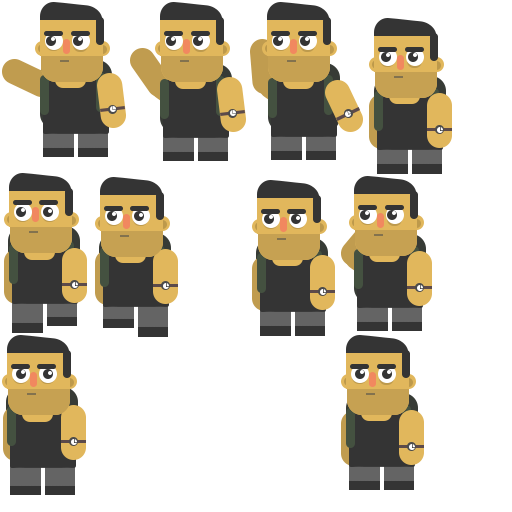
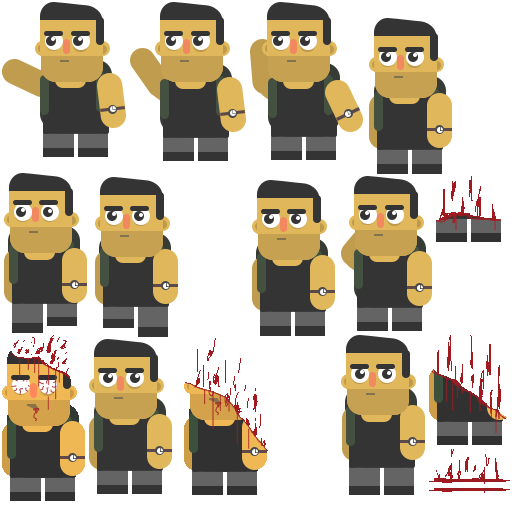
initial commit

diff --git a/data.js b/data.js
@@ -1,1 +1,1 @@
-{"project": [null,"Layout 1",[[0,true,false,false,false,false,false,false,false,false],[1,true,false,false,false,false,false,false,false,false],[2,false,true,true,true,true,true,true,true,false]],[["t0",2,false,[],1,0,null,[["Default",5,false,1,0,false,290345721044715,[["images/sprite-sheet0.png",155,0,0,250,250,1,0.5,0.5,[],[],1]]]],[["Solid",3,567882744978738]],false,false,850292825278928,[],null],["t1",2,false,[],3,0,null,[["stay",1,true,1,0,false,749362730985729,[["images/krot-sheet0.png",21774,340,334,85,157,1,0.4588235318660736,0.3821656107902527,[],[-0.4588235318660736,-0.3821656107902527,0.541176438331604,-0.3694266974925995,0.541176438331604,0.606688380241394,-0.4588235318660736,0.6082803606987],0],["images/krot-sheet0.png",21774,1,334,86,162,1,0.4767441749572754,0.4074074029922485,[],[-0.4767441749572754,-0.3765431940555573,0.5232558250427246,-0.3765431940555573,0.5232558250427246,0.5864195823669434,-0.4767441749572754,0.5864195823669434],0]]],["walk",8,true,1,0,false,620806035639059,[["images/krot-sheet0.png",21774,366,1,89,172,1,0.5056179761886597,0.5,[],[-0.5056179761886597,-0.4011628031730652,0.4943820238113403,-0.3895350098609924,0.4943820238113403,0.5,-0.5056179761886597,0.5],0],["images/krot-sheet0.png",21774,1,160,89,172,1,0.5056179761886597,0.5,[],[-0.5056179761886597,-0.4127907156944275,0.4943820238113403,-0.4127907156944275,0.4943820238113403,0.5,-0.5056179761886597,0.5],0],["images/krot-sheet0.png",21774,249,163,89,172,1,0.5056179761886597,0.5,[],[-0.5056179761886597,-0.4011628031730652,0.4943820238113403,-0.4011628031730652,0.4943820238113403,0.5,-0.4943819642066956,0.5],0],["images/krot-sheet0.png",21774,92,164,89,172,1,0.5056179761886597,0.5,[],[-0.5056179761886597,-0.4244185984134674,0.4943820238113403,-0.4011628031730652,0.4943820238113403,0.5,-0.5056179761886597,0.5],0]]],["drop",15,false,1,0,false,899819414167787,[["images/krot-sheet0.png",21774,340,175,93,157,1,0.5376344323158264,0.4394904375076294,[["Imagepoint 1",0.2903225719928742,0.3566879034042358]],[],0],["images/krot-sheet0.png",21774,249,1,115,160,1,0.47826087474823,0.449999988079071,[["Imagepoint 1",0.08695652335882187,0.2874999940395355]],[],0],["images/krot-sheet0.png",21774,129,1,118,161,1,0.5677965879440308,0.4534161388874054,[["Imagepoint 1",0.110169492661953,0.3540372550487518]],[],0],["images/krot-sheet0.png",21774,1,1,126,157,1,0.5952380895614624,0.4394904375076294,[["Imagepoint 1",0.0873015895485878,0.4458598792552948]],[],0]]]],[["Platform",4,458768988047190],["BoundToLayout",5,684014954984574],["ScrollTo",6,859073958457386]],false,false,881908458768450,[],null],["t2",1,false,[],0,0,null,null,[],false,false,885561060398515,[],null,[]],["t3",2,false,[],0,0,null,[["Default",5,false,1,0,false,898584850631718,[["images/mist-sheet0.png",168,0,0,250,250,1,0.5,0.5,[],[],0]]]],[],false,false,654437097259285,[],null],["t4",0,false,[],0,0,null,null,[],false,false,727626906444584,[],null,[]],["t5",2,false,[],2,0,null,[["Default",5,false,1,0,false,499906694730649,[["images/sprite2-sheet0.png",281,0,0,15,20,1,0.5333333611488342,0.5,[],[-0.2625000476837158,-0.496874988079071,0.1875000596046448,-0.5,0.2000000476837158,0.5,-0.2791666686534882,0.5],0]]]],[["Bullet",7,769964365356509],["DestroyOutsideLayout",8,737752913393361]],false,false,683811939376830,[],null]],[],[["Layout 1",6000,2000,false,"Event sheet 1",339267919298112,[["Layer 0",0,149346478023455,true,[255,255,255],false,1,1,1,false,false,1,0,0,[[[2915.5,1977.5,0,6605,129,0,0,1,0.5,0.5,0,0,[]],0,0,[],[[1]],[0,"Default",0,1]],[[1607,-67,0,15,20,0,0,1,0.5333333611488342,0.5,0,0,[]],5,6,[],[[0,0,800,1,1,1],[]],[0,"Default",0,1]],[[1661,1784,0,85,157,0,0,1,0.4588235318660736,0.3821656107902527,0,0,[]],1,1,[],[[280,1000,1500,650,1500,1000,0,0,1,1],[1],[1]],[0,"Default",0,1]],[[2095,1292,0,3933,-225,0,1.570796370506287,1,0.5,0.5,0,0,[]],0,2,[],[[1]],[0,"Default",0,1]]],[]],["Layer 1",1,789250980891921,true,[255,255,255],true,0,0,1,false,false,1,0,0,[[[721,451,0,1440,900,0,0,1,0.5,0.5,0,0,[]],3,4,[],[],[0,"Default",0,1]]],[]]],[],[["blurhorizontal","BlurHorizontal",[0]],["grayscale","Grayscale",[0]]]]],[["Event sheet 1",[[1,"ty",0,0,false,false,295309401912935,false],[1,"tx",0,0,false,false,686007770488900,false],[0,[true,"Control"],false,null,813629449412545,[[-1,9,null,0,false,false,false,813629449412545,false,[[1,[2,"Control"]]]]],[],[[0,null,false,null,304820155854239,[[2,10,null,0,false,false,false,721475594710509,false,[[9,68]]]],[[1,11,null,177092695791647,false,[[3,0]]],[1,12,"Platform",168325137038171,false,[[3,1]]],[1,13,null,707523333173732,false,[[1,[2,"walk"]],[3,0]]]]],[0,null,false,null,667516650761343,[[2,10,null,0,false,false,false,651807720691503,false,[[9,65]]]],[[1,12,"Platform",333995605247050,false,[[3,0]]],[1,11,null,104973760089539,false,[[3,1]]],[1,13,null,607868741063633,false,[[1,[2,"walk"]],[3,0]]]]],[0,null,false,null,411008383957127,[[2,14,null,1,false,false,false,383819252518843,false]],[[1,13,null,797436896979419,false,[[1,[2,"stay"]],[3,1]]]]],[0,null,false,null,894846660153466,[[2,10,null,0,false,false,false,509737596433223,false,[[9,65]]]],[],[[0,null,false,null,741148839789466,[[2,10,null,0,false,false,false,533136677834150,false,[[9,68]]]],[[1,13,null,643858538598154,false,[[1,[2,"stay"]],[3,1]]]]]]],[0,null,false,null,516101026509157,[[2,15,null,1,false,false,false,765708718048436,false,[[9,68]]]],[[1,11,null,762591654095238,false,[[3,0]]],[1,12,"Platform",787100016566240,false,[[3,1]]],[1,13,null,389692988739255,false,[[1,[2,"walk"]],[3,0]]]]],[0,null,false,null,317125194927920,[[2,15,null,1,false,false,false,195029383321465,false,[[9,65]]]],[[1,12,"Platform",645367843616661,false,[[3,0]]],[1,11,null,250908099444129,false,[[3,1]]],[1,13,null,382971586698483,false,[[1,[2,"walk"]],[3,0]]]]],[0,null,false,null,732489410493878,[[2,10,null,0,false,false,false,235992029318448,false,[[9,87]]]],[[1,12,"Platform",979978631487969,false,[[3,2]]]]],[0,[true,"Drop"],false,null,833617224661759,[[-1,9,null,0,false,false,false,833617224661759,false,[[1,[2,"Drop"]]]]],[],[[0,null,false,null,784452358361354,[[4,16,null,1,false,false,false,684199064864216,false,[[3,0],[3,0]]]],[[-1,17,null,603926017360656,false,[[11,"tx"],[7,[20,4,18,false,null]]]],[-1,17,null,199793876582497,false,[[11,"ty"],[7,[20,4,19,false,null]]]],[1,13,null,795070699028010,false,[[1,[2,"drop"]],[3,1]]]],[[0,null,false,null,216521865756220,[[-1,20,null,0,false,false,false,482504774635426,false,[[7,[20,4,18,false,null]],[8,4],[7,[20,1,21,false,null]]]]],[[1,11,null,312602241872034,false,[[3,0]]]]],[0,null,false,null,658034387238527,[[-1,22,null,0,false,false,false,561652485538757,false]],[[1,11,null,904554921919341,false,[[3,1]]]]]]],[0,null,false,null,199717382547579,[[1,23,null,1,false,false,false,917950613831408,false,[[1,[2,"drop"]]]]],[[1,24,null,805161869226979,false,[[4,5],[5,[0,0]],[7,[0,1]]]],[1,13,null,750164170788197,false,[[1,[2,"stay"]],[3,1]]],[5,25,"Bullet",804105547968555,false,[[0,[0,900]]]],[5,26,null,238112163086017,false,[[0,[23,"tx"]],[0,[23,"ty"]]]]]],[0,null,false,null,241404031183343,[[5,27,null,0,false,false,true,600237593454248,false,[[4,0]]]],[[5,25,"Bullet",602554344957209,false,[[0,[0,0]]]],[5,28,"Bullet",455870829027286,false,[[4,0]]]]]]]]]]]],[],"media/",false,1440,900,4,true,true,true,"1.0.0.0",true,false,1,0,7,false,true,0,true,"Посещение Три",0,[]]}
+{"project": [null,"Layout 1",[[0,true,false,false,false,false,false,false,false,false],[1,true,false,false,false,false,false,false,false,false],[2,false,true,true,true,true,true,true,true,false]],[["t0",2,false,[],1,0,null,[["Default",5,false,1,0,false,290345721044715,[["images/sprite-sheet0.png",155,0,0,250,250,1,0.5,0.5,[],[],1]]]],[["Solid",3,567882744978738]],false,false,850292825278928,[],null],["t1",2,false,[],3,0,null,[["stay",1,false,1,0,false,749362730985729,[["images/krot-sheet0.png",29600,88,338,85,157,1,0.4588235318660736,0.3821656107902527,[],[-0.4588235318660736,-0.3821656107902527,0.541176438331604,-0.3694266974925995,0.541176438331604,0.606688380241394,-0.4588235318660736,0.6082803606987],0],["images/krot-sheet0.png",29600,340,334,86,162,1,0.4767441749572754,0.4074074029922485,[],[-0.4767441749572754,-0.3765431940555573,0.5232558250427246,-0.3765431940555573,0.5232558250427246,0.5864195823669434,-0.4767441749572754,0.5864195823669434],0]]],["walk",8,true,1,0,false,620806035639059,[["images/krot-sheet0.png",29600,366,1,89,172,1,0.5056179761886597,0.5,[],[-0.5056179761886597,-0.4011628031730652,0.4943820238113403,-0.3895350098609924,0.4943820238113403,0.5,-0.5056179761886597,0.5],0],["images/krot-sheet0.png",29600,1,160,89,172,1,0.5056179761886597,0.5,[],[-0.5056179761886597,-0.4127907156944275,0.4943820238113403,-0.4127907156944275,0.4943820238113403,0.5,-0.5056179761886597,0.5],0],["images/krot-sheet0.png",29600,249,163,89,172,1,0.5056179761886597,0.5,[],[-0.5056179761886597,-0.4011628031730652,0.4943820238113403,-0.4011628031730652,0.4943820238113403,0.5,-0.4943819642066956,0.5],0],["images/krot-sheet0.png",29600,92,164,89,172,1,0.5056179761886597,0.5,[],[-0.5056179761886597,-0.4244185984134674,0.4943820238113403,-0.4011628031730652,0.4943820238113403,0.5,-0.5056179761886597,0.5],0]]],["drop",15,false,1,0,false,899819414167787,[["images/krot-sheet0.png",29600,340,175,93,157,1,0.5376344323158264,0.4394904375076294,[["Imagepoint 1",0.2903225719928742,0.3566879034042358]],[],0],["images/krot-sheet0.png",29600,249,1,115,160,1,0.47826087474823,0.449999988079071,[["Imagepoint 1",0.08695652335882187,0.2874999940395355]],[],0],["images/krot-sheet0.png",29600,129,1,118,161,1,0.5677965879440308,0.4534161388874054,[["Imagepoint 1",0.110169492661953,0.3540372550487518]],[],0],["images/krot-sheet0.png",29600,1,1,126,157,1,0.5952380895614624,0.4394904375076294,[["Imagepoint 1",0.0873015895485878,0.4458598792552948]],[],0]]],["meat",22,false,1,0,false,944242292211497,[["images/krot-sheet1.png",3185,1,1,85,157,1,0.4823529422283173,0.4968152940273285,[],[],0],["images/krot-sheet0.png",29600,1,334,85,168,1,0.4823529422283173,0.5297619104385376,[],[],0],["images/krot-sheet1.png",3185,88,1,85,149,1,0.4823529422283173,0.4697986543178558,[],[],0],["images/krot-sheet0.png",29600,183,337,86,159,1,0.4767441749572754,0.5031446814537048,[],[],0],["images/krot-sheet0.png",29600,428,334,80,112,1,0.512499988079071,0.2946428656578064,[],[],0],["images/krot-sheet0.png",29600,435,175,67,68,1,0.4925373196601868,-0.1617647111415863,[],[],0],["images/krot-sheet0.png",29600,428,448,83,37,1,0.4939759075641632,-1.891891837120056,[],[],0],["images/krot-sheet0.png",29600,428,487,83,7,1,0.4939759075641632,-12,[],[],0],["images/krot-sheet0.png",29600,428,487,83,7,1,0.4939759075641632,-12.42857170104981,[],[],0],["images/krot-sheet0.png",29600,428,487,83,7,1,0.4698795080184937,-12.42857170104981,[],[],0]]]],[["Platform",4,458768988047190],["BoundToLayout",5,684014954984574],["ScrollTo",6,859073958457386]],false,false,881908458768450,[],null],["t2",0,false,[],0,0,null,null,[],false,false,885561060398515,[],null,[]],["t3",2,false,[],0,0,null,[["Default",5,false,1,0,false,898584850631718,[["images/mist-sheet0.png",168,0,0,250,250,1,0.5,0.5,[],[],0]]]],[],false,false,654437097259285,[],null],["t4",1,false,[],0,0,null,null,[],false,false,727626906444584,[],null,[]],["t5",2,false,[],2,0,null,[["Default",5,false,1,0,false,499906694730649,[["images/sprite2-sheet0.png",281,0,0,15,20,1,0.5333333611488342,0.5,[],[-0.2625003755092621,-0.496874988079071,0.1874996423721314,-0.5,0.1999996304512024,0.5,-0.2791663706302643,0.5],0]]]],[["Bullet",7,769964365356509],["DestroyOutsideLayout",8,737752913393361]],false,false,683811939376830,[],null],["t6",2,false,[],0,0,null,[["Default",5,false,1,0,false,360482721725032,[["images/meat-sheet0.png",8839,0,0,130,190,1,0.5,0.5,[],[-0.1461538374423981,-0.4210527241230011,-0.03076934814453125,-0.4473684430122376,0.01538395881652832,0.3684207201004028,-0.1461538374423981,0.363157331943512],0]]]],[],false,false,443611415341449,[],null]],[],[["Layout 1",6000,2000,false,"Event sheet 1",339267919298112,[["Layer 0",0,149346478023455,true,[255,255,255],false,1,1,1,false,false,1,0,0,[[[2915.5,1977.5,0,6605,129,0,0,1,0.5,0.5,0,0,[]],0,0,[],[[1]],[0,"Default",0,1]],[[1607,-67,0,15,20,0,0,1,0.5333333611488342,0.5,0,0,[]],5,6,[],[[0,0,800,1,1,1],[]],[0,"Default",0,1]],[[1661,1784,0,85,157,0,0,1,0.4588235318660736,0.3821656107902527,0,0,[]],1,1,[],[[280,1000,1500,650,1500,1000,0,0,0,1],[1],[1]],[0,"Default",0,1]],[[2095,1292,0,3933,-225,0,1.570796370506287,1,0.5,0.5,0,0,[]],0,2,[],[[1]],[0,"Default",0,1]],[[582,1802,0,130,190,0,0,1,0.5,0.5,0,0,[]],6,7,[],[],[1,"Default",0,1]]],[]],["Layer 1",1,789250980891921,true,[255,255,255],true,0,0,1,false,false,1,0,0,[[[721,451,0,1440,900,0,0,1,0.5,0.5,0,0,[]],3,4,[],[],[0,"Default",0,1]]],[]]],[],[["blurhorizontal","BlurHorizontal",[0]],["grayscale","Grayscale",[0]]]]],[["Event sheet 1",[[1,"ty",0,0,false,false,295309401912935,false],[1,"tx",0,0,false,false,686007770488900,false],[0,null,false,null,799295315285301,[[1,9,null,0,false,false,true,655659393197715,false,[[4,6]]]],[[6,10,null,568882435435176,false,[[3,1]]],[-1,11,null,334001121849500,false,[[0,[1,0.05]]]],[6,10,null,418179631903184,false,[[3,0]]],[1,12,null,783905431342277,false,[[1,[2,"meat"]],[3,1]]],[1,13,"Platform",892607312540177,false,[[3,0]]],[-1,14,null,288057812341535,false,[[1,[2,"Control"]],[3,0]]],[-1,11,null,733499983731541,false,[[0,[1,3]]]],[-1,15,null,766101580149485,false]]],[0,[true,"Control"],false,null,813629449412545,[[-1,16,null,0,false,false,false,813629449412545,false,[[1,[2,"Control"]]]]],[],[[0,null,false,null,304820155854239,[[2,17,null,0,false,false,false,721475594710509,false,[[9,68]]]],[[1,18,null,177092695791647,false,[[3,0]]],[1,19,"Platform",168325137038171,false,[[3,1]]],[1,12,null,707523333173732,false,[[1,[2,"walk"]],[3,0]]]]],[0,null,false,null,667516650761343,[[2,17,null,0,false,false,false,651807720691503,false,[[9,65]]]],[[1,19,"Platform",333995605247050,false,[[3,0]]],[1,18,null,104973760089539,false,[[3,1]]],[1,12,null,607868741063633,false,[[1,[2,"walk"]],[3,0]]]]],[0,null,false,null,411008383957127,[[2,20,null,1,false,false,false,383819252518843,false]],[[1,12,null,797436896979419,false,[[1,[2,"stay"]],[3,1]]]]],[0,null,false,null,894846660153466,[[2,17,null,0,false,false,false,509737596433223,false,[[9,65]]]],[],[[0,null,false,null,741148839789466,[[2,17,null,0,false,false,false,533136677834150,false,[[9,68]]]],[[1,12,null,643858538598154,false,[[1,[2,"stay"]],[3,1]]]]]]],[0,null,false,null,516101026509157,[[2,21,null,1,false,false,false,765708718048436,false,[[9,68]]]],[[1,18,null,762591654095238,false,[[3,0]]],[1,19,"Platform",787100016566240,false,[[3,1]]],[1,12,null,389692988739255,false,[[1,[2,"walk"]],[3,0]]]]],[0,null,false,null,317125194927920,[[2,21,null,1,false,false,false,195029383321465,false,[[9,65]]]],[[1,19,"Platform",645367843616661,false,[[3,0]]],[1,18,null,250908099444129,false,[[3,1]]],[1,12,null,382971586698483,false,[[1,[2,"walk"]],[3,0]]]]],[0,null,false,null,732489410493878,[[2,17,null,0,false,false,false,235992029318448,false,[[9,87]]]],[[1,19,"Platform",979978631487969,false,[[3,2]]]]],[0,[true,"Drop"],false,null,833617224661759,[[-1,16,null,0,false,false,false,833617224661759,false,[[1,[2,"Drop"]]]]],[],[[0,null,false,null,784452358361354,[[4,22,null,1,false,false,false,684199064864216,false,[[3,0],[3,0]]]],[[-1,23,null,603926017360656,false,[[11,"tx"],[7,[20,4,24,false,null]]]],[-1,23,null,199793876582497,false,[[11,"ty"],[7,[20,4,25,false,null]]]],[1,12,null,795070699028010,false,[[1,[2,"drop"]],[3,1]]]],[[0,null,false,null,216521865756220,[[-1,26,null,0,false,false,false,482504774635426,false,[[7,[20,4,24,false,null]],[8,4],[7,[20,1,27,false,null]]]]],[[1,18,null,312602241872034,false,[[3,0]]]]],[0,null,false,null,658034387238527,[[-1,28,null,0,false,false,false,561652485538757,false]],[[1,18,null,904554921919341,false,[[3,1]]]]]]],[0,null,false,null,199717382547579,[[1,29,null,1,false,false,false,917950613831408,false,[[1,[2,"drop"]]]]],[[1,30,null,805161869226979,false,[[4,5],[5,[0,0]],[7,[0,1]]]],[1,12,null,750164170788197,false,[[1,[2,"stay"]],[3,1]]],[5,31,"Bullet",804105547968555,false,[[0,[0,900]]]],[5,32,null,238112163086017,false,[[0,[23,"tx"]],[0,[23,"ty"]]]]]],[0,null,false,null,715422118814360,[[5,9,null,0,false,false,true,254460087500721,false,[[4,6]]]],[[5,33,null,783998869541039,false],[6,10,null,774137314999994,false,[[3,1]]],[-1,11,null,114798843473230,false,[[0,[1,0.05]]]],[6,10,null,283854607852377,false,[[3,0]]]]],[0,null,false,null,241404031183343,[[5,9,null,0,false,false,true,600237593454248,false,[[4,0]]]],[[5,31,"Bullet",602554344957209,false,[[0,[0,0]]]],[5,34,"Bullet",455870829027286,false,[[4,0]]]]]]]]]]]],[],"media/",false,1440,900,4,true,true,true,"1.0.0.0",true,false,1,0,8,false,true,0,true,"Посещение Три",0,[]]}

diff --git a/c2runtime.js b/c2runtime.js
@@ -18472,8 +18472,8 @@ cr.behaviors.solid = function(runtime)
 	behaviorProto.acts = new Acts();
 }());
 cr.getObjectRefTable = function () { return [
-	cr.plugins_.Mouse,
 	cr.plugins_.Keyboard,
+	cr.plugins_.Mouse,
 	cr.plugins_.Sprite,
 	cr.behaviors.solid,
 	cr.behaviors.Platform,
@@ -18481,11 +18481,17 @@ cr.getObjectRefTable = function () { return [
 	cr.behaviors.scrollto,
 	cr.behaviors.Bullet,
 	cr.behaviors.destroy,
+	cr.plugins_.Sprite.prototype.cnds.OnCollision,
+	cr.plugins_.Sprite.prototype.acts.SetVisible,
+	cr.system_object.prototype.acts.Wait,
+	cr.plugins_.Sprite.prototype.acts.SetAnim,
+	cr.behaviors.Platform.prototype.acts.SetEnabled,
+	cr.system_object.prototype.acts.SetGroupActive,
+	cr.system_object.prototype.acts.RestartLayout,
 	cr.system_object.prototype.cnds.IsGroupActive,
 	cr.plugins_.Keyboard.prototype.cnds.IsKeyDown,
 	cr.plugins_.Sprite.prototype.acts.SetMirrored,
 	cr.behaviors.Platform.prototype.acts.SimulateControl,
-	cr.plugins_.Sprite.prototype.acts.SetAnim,
 	cr.plugins_.Keyboard.prototype.cnds.OnAnyKeyReleased,
 	cr.plugins_.Keyboard.prototype.cnds.OnKey,
 	cr.plugins_.Mouse.prototype.cnds.OnClick,
@@ -18499,6 +18505,6 @@ cr.getObjectRefTable = function () { return [
 	cr.plugins_.Sprite.prototype.acts.Spawn,
 	cr.behaviors.Bullet.prototype.acts.SetSpeed,
 	cr.plugins_.Sprite.prototype.acts.SetTowardPosition,
-	cr.plugins_.Sprite.prototype.cnds.OnCollision,
+	cr.plugins_.Sprite.prototype.acts.Destroy,
 	cr.behaviors.Bullet.prototype.acts.Bounce
 ];};

diff --git a/offline.js b/offline.js
@@ -1,5 +1,5 @@
 {
-	"version": 1530122517,
+	"version": 1530128100,
 	"fileList": [
 		"data.js",
 		"c2runtime.js",
@@ -7,8 +7,10 @@
 		"offlineClient.js",
 		"images/sprite-sheet0.png",
 		"images/krot-sheet0.png",
+		"images/krot-sheet1.png",
 		"images/mist-sheet0.png",
 		"images/sprite2-sheet0.png",
+		"images/meat-sheet0.png",
 		"icon-16.png",
 		"icon-32.png",
 		"icon-114.png",
